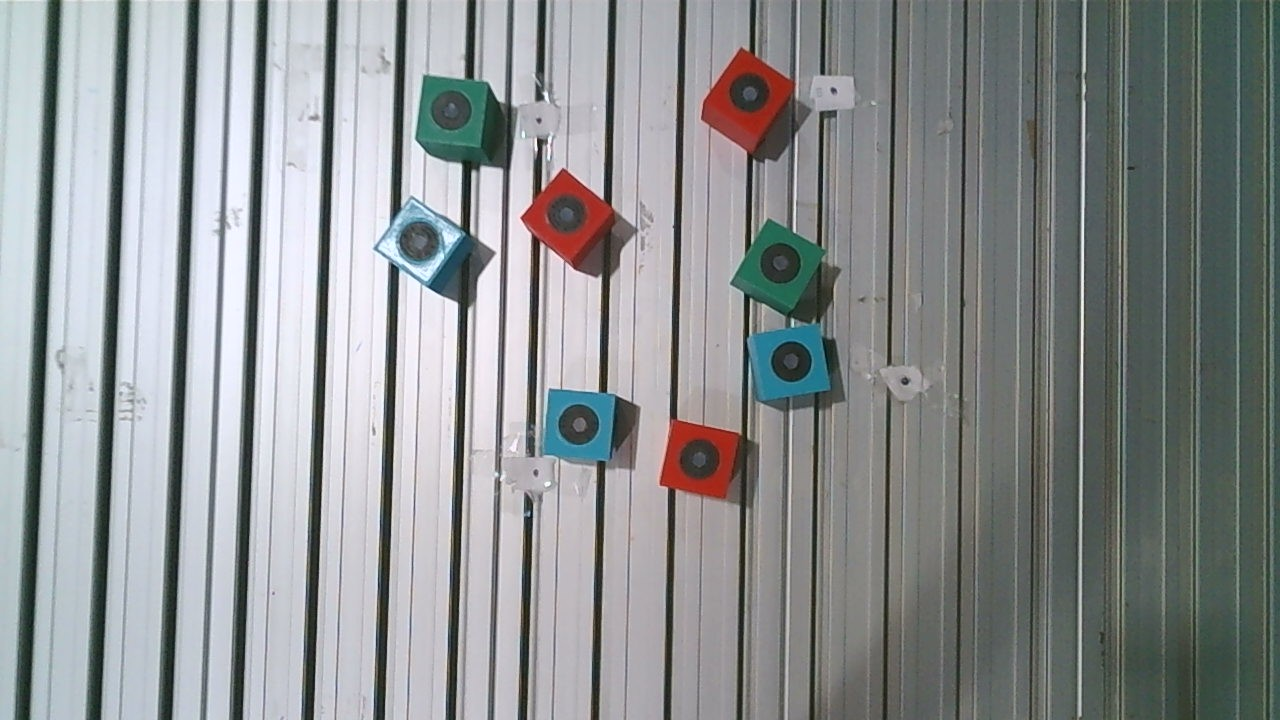
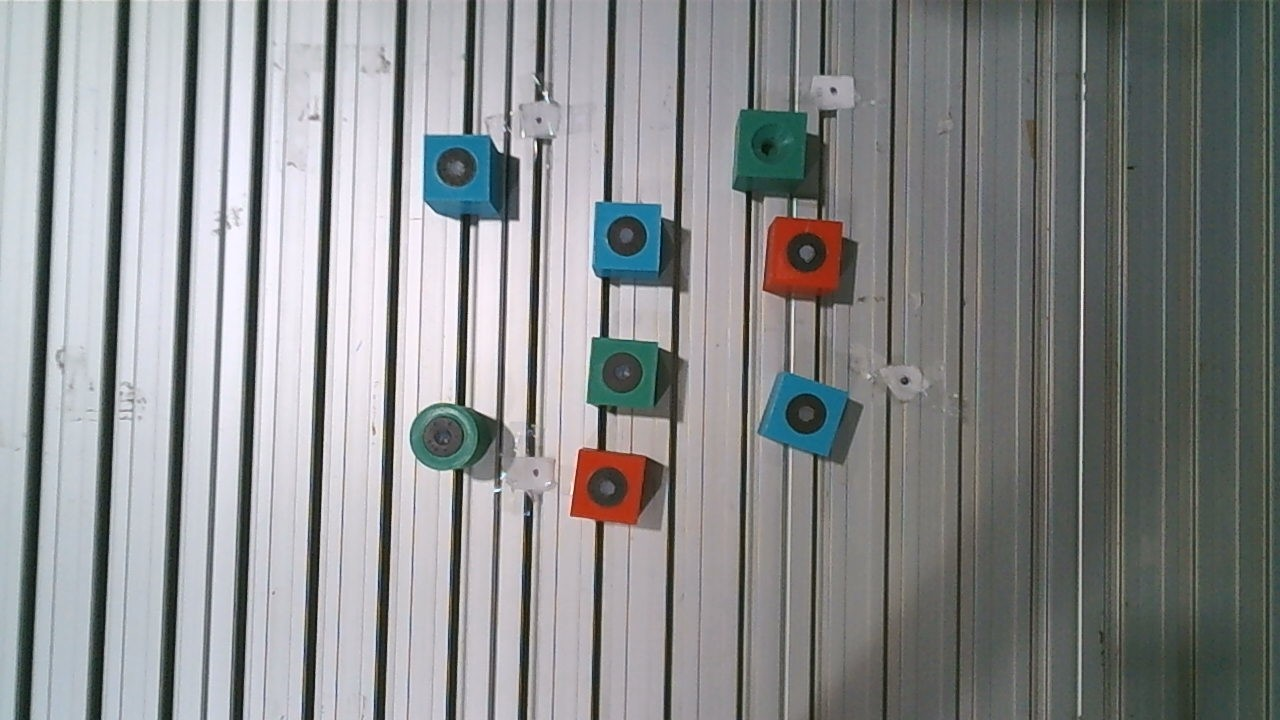
Puesta en marcha final

diff --git a/lab_HMI/webapp/app.js b/lab_HMI/webapp/app.js
@@ -108,6 +108,9 @@ async function createHMI() {
             rapidCount = await RWS.Rapid.getData(TASK, MODULE, "piecesPickedCount");
             rapidCount.addCallbackOnChanged(v => {
                 document.getElementById("piece-count").textContent = v;
+                if (parseInt(v) >= 9) {
+                    FPComponents.Popup_A.message("Mision completada", "Se han recogido 9 piezas con exito.");
+                }
             });
             await rapidCount.subscribe(true);
         } catch (e) { console.warn("rapidCount:", e); }

diff --git a/lab3_pick_place_VC/client-tcpip-gofa/ClienteGoFa_original.py b/lab3_pick_place_VC/client-tcpip-gofa/ClienteGoFa_original.py
@@ -1,83 +1,199 @@
 import cv2
 import numpy as np
 import socket
-import time
+import select
 import json
+from pathlib import Path
+
+BASE_DIR = Path(__file__).parent
+HOMOGRAPHY_FILE = BASE_DIR / "homography.json"
+
 mi_socket = socket.socket()
-mi_socket.connect(("192.168.125.1" , 1025))
-#mi_socket.connect(("127.0.0.1" , 1025))
+mi_socket.connect(("192.168.125.1", 1025))
+#mi_socket.connect(("127.0.0.1", 1025))
 respuesta = mi_socket.recv(1024)
 print(respuesta)
 mi_socket.sendall('Server connected'.encode())
 
-def dibujar(mask,color):
-  contornos,_ = cv2.findContours(mask, cv2.RETR_EXTERNAL,
-      cv2.CHAIN_APPROX_SIMPLE)
-  for c in contornos:
-    area = cv2.contourArea(c)
-    if area > 2000:
-      M = cv2.moments(c)
-      if (M["m00"]==0): M["m00"]=1
-      x = int(M["m10"]/M["m00"])
-      y = int(M['m01']/M['m00'])
-      
-      # Convertir pixeles a milímetros reales usando la calibracion
-      pt = np.array([[[x, y]]], dtype=np.float32)
-      res = cv2.perspectiveTransform(pt, H_global)[0][0]
-      x_mm, y_mm = float(res[0]), float(res[1])
-      
-      # Ignorar la zona de la izquierda (donde el robot deja los cubos)
-      if x_mm < 500:
-          continue
-          
-      nuevoContorno = cv2.convexHull(c)
-      cv2.circle(frame,(x,y),7,(0,255,0),-1)
-      
-      # Formatear a XXXYYY
-      x_str = str(max(0, min(999, int(round(x_mm))))).zfill(3)
-      y_str = str(max(0, min(999, int(round(y_mm))))).zfill(3)
-      
-      label = f'{x_str},{y_str}mm'
-      cv2.putText(frame,label,(x+10,y), font, 0.65,(0,255,0),1,cv2.LINE_AA)
-      
-      cv2.drawContours(frame, [nuevoContorno], 0, color, 3)
-      
-      coordXY = x_str + y_str
-      mi_socket.sendall(coordXY.encode())
-      time.sleep(1)
-      print("Coordenadas enviadas: " + coordXY)
+# ─── HOMOGRAFÍA ───────────────────────────────────────────────────────────────
 
-with open("homography.json", "r", encoding="utf-8") as f:
-    H_global = np.array(json.load(f)["H"], dtype=np.float64)
+def cargar_homografia(ruta):
+    if not Path(ruta).is_file():
+        return None
+    with open(ruta, "r", encoding="utf-8") as f:
+        data = json.load(f)
+    return np.array(data["H"], dtype=np.float64)
 
-cap = cv2.VideoCapture(2)
-azulBajo = np.array([90, 120, 80],np.uint8)
-azulAlto = np.array([130, 255, 255],np.uint8)
-amarilloBajo = np.array([20, 120, 80],np.uint8)
-amarilloAlto = np.array([40, 255, 255],np.uint8)
-redBajo1 = np.array([0, 120, 80],np.uint8)
-redAlto1 = np.array([8, 255, 255],np.uint8)
-redBajo2 = np.array([170, 120, 80],np.uint8)
-redAlto2 = np.array([179, 255, 255],np.uint8)
+H_global = cargar_homografia(HOMOGRAPHY_FILE)
+if H_global is None:
+    print("[AVISO] homography.json no encontrado. Coordenadas en pixeles.")
 
+def pixel_a_mm(px, py):
+    pt = np.array([[[px, py]]], dtype=np.float32)
+    res = cv2.perspectiveTransform(pt, H_global)[0][0]
+    return float(res[0]), float(res[1])
+
+def formatear_coords(x_mm, y_mm):
+    x = max(0, min(999, int(round(x_mm))))
+    y = max(0, min(999, int(round(y_mm))))
+    return f"{x:03d}{y:03d}"
+
+# ─── CONFIGURACIÓN DE COLORES ─────────────────────────────────────────────────
+# Valores por defecto si no existe el JSON calibrado
+DEFAULTS = {
+    "amarillo": {"hsv_lower_h": 20,  "hsv_lower_s": 150, "hsv_lower_v": 150,
+                 "hsv_upper_h": 30,  "hsv_upper_s": 255, "hsv_upper_v": 255, "min_area": 1000},
+    "verde":    {"hsv_lower_h": 45,  "hsv_lower_s": 75,  "hsv_lower_v": 52,
+                 "hsv_upper_h": 85,  "hsv_upper_s": 189, "hsv_upper_v": 147, "min_area": 442},
+    "azul":     {"hsv_lower_h": 96,  "hsv_lower_s": 69,  "hsv_lower_v": 0,
+                 "hsv_upper_h": 117, "hsv_upper_s": 198, "hsv_upper_v": 255, "min_area": 986},
+    "rojo":     {"hsv_lower_h": 0,   "hsv_lower_s": 128, "hsv_lower_v": 132,
+                 "hsv_upper_h": 49,  "hsv_upper_s": 255, "hsv_upper_v": 255,
+                 "hsv_lower_h2": 145, "hsv_upper_h2": 179, "min_area": 136},
+}
+
+# C1=Amarillo  C2=Azul  C3=Rojo  C4=Verde
+COLOR_IDS   = {1: "amarillo", 2: "azul", 3: "rojo", 4: "verde"}
+COLOR_BGR   = {"amarillo": (0, 255, 255), "azul": (255, 0, 0), "rojo": (0, 0, 255), "verde": (0, 200, 0)}
+COLOR_NOMBRES = {1: "Amarillo", 2: "Azul", 3: "Rojo", 4: "Verde"}
+
+def _cargar_cfg(nombre):
+    ruta = BASE_DIR / f"config_cubos_{nombre}.json"
+    if ruta.is_file():
+        with open(ruta, "r", encoding="utf-8") as f:
+            return json.load(f)
+    return DEFAULTS[nombre]
+
+color_configs = {cid: _cargar_cfg(nombre) for cid, nombre in COLOR_IDS.items()}
+
+def calcular_mask(frameHSV, cfg):
+    lo = np.array([cfg["hsv_lower_h"], cfg["hsv_lower_s"], cfg["hsv_lower_v"]], np.uint8)
+    hi = np.array([cfg["hsv_upper_h"], cfg["hsv_upper_s"], cfg["hsv_upper_v"]], np.uint8)
+    mask = cv2.inRange(frameHSV, lo, hi)
+    if "hsv_lower_h2" in cfg:
+        lo2 = np.array([cfg["hsv_lower_h2"], cfg["hsv_lower_s"], cfg["hsv_lower_v"]], np.uint8)
+        hi2 = np.array([cfg["hsv_upper_h2"], cfg["hsv_upper_s"], cfg["hsv_upper_v"]], np.uint8)
+        mask = cv2.add(mask, cv2.inRange(frameHSV, lo2, hi2))
+    return mask
+
+# ─── ESTADO: color pedido por RAPID ───────────────────────────────────────────
+selected_color_id = None  # ultimo color solicitado por RAPID
+pendiente_envio = False   # True = RAPID espera una coordenada
+
+def leer_color_desde_rapid():
+    """Lee mensajes de RAPID: 'Cn' (peticion de coordenada) o 'FIN' (9 piezas completadas)."""
+    global selected_color_id, pendiente_envio
+    try:
+        readable, _, _ = select.select([mi_socket], [], [], 0)
+        if readable:
+            data = mi_socket.recv(8).decode(errors="ignore").strip()
+            if data == "FIN":
+                print("\n" + "=" * 45)
+                print("  COMPLETADO: 9 piezas recogidas con exito.")
+                print("=" * 45 + "\n")
+            elif data.startswith("C") and len(data) >= 2 and data[1].isdigit():
+                nuevo = int(data[1])
+                if nuevo in COLOR_IDS:
+                    selected_color_id = nuevo
+                    pendiente_envio = True
+                    print(f"\n[RAPID] Peticion: {COLOR_NOMBRES[nuevo]} — buscando pieza...")
+    except Exception as e:
+        print(f"[Error] Socket: {e}")
+
+# ─── DETECCIÓN + DIBUJO ───────────────────────────────────────────────────────
 font = cv2.FONT_HERSHEY_SIMPLEX
 
-while True:
-    ret,frame = cap.read()
+def dibujar_color(frame, frameHSV, color_id):
+    """Dibuja contornos y etiquetas de coordenadas del color dado.
+    Devuelve lista de strings 'XXXYYYY' de las piezas en zona de recogida."""
+    cfg = color_configs[color_id]
+    mask = calcular_mask(frameHSV, cfg)
+    contornos, _ = cv2.findContours(mask, cv2.RETR_EXTERNAL, cv2.CHAIN_APPROX_SIMPLE)
+    bgr = COLOR_BGR[COLOR_IDS[color_id]]
+    min_area = cfg.get("min_area", 500)
+    coords_encontradas = []
 
-    if ret == True:
-        frameHSV = cv2.cvtColor(frame,cv2.COLOR_BGR2HSV)
-        maskAzul = cv2.inRange(frameHSV,azulBajo,azulAlto)
-        maskAmarillo = cv2.inRange(frameHSV,amarilloBajo,amarilloAlto)
-        maskRed1 = cv2.inRange(frameHSV,redBajo1,redAlto1)
-        maskRed2 = cv2.inRange(frameHSV,redBajo2,redAlto2)
-        maskRed = cv2.add(maskRed1,maskRed2)
-        dibujar(maskAzul,(255,0,0))
-        dibujar(maskAmarillo,(0,255,255))
-        dibujar(maskRed,(0,0,255))
-        cv2.imshow('frame',frame)
-        if cv2.waitKey(1) & 0xFF == ord('s'):
-            mi_socket.close()
-            break
+    for c in contornos:
+        if cv2.contourArea(c) < min_area:
+            continue
+        M = cv2.moments(c)
+        if M["m00"] == 0:
+            continue
+        x = int(M["m10"] / M["m00"])
+        y = int(M["m01"] / M["m00"])
+        hull = cv2.convexHull(c)
+        cv2.drawContours(frame, [hull], 0, bgr, 3)
+        cv2.circle(frame, (x, y), 7, bgr, -1)
+
+        if H_global is not None:
+            x_mm, y_mm = pixel_a_mm(x, y)
+            if x_mm < 500:  # ignorar zona de deposito
+                continue
+            coordXY = formatear_coords(x_mm, y_mm)
+            label = f'{coordXY[:3]},{coordXY[3:]}mm'
+        else:
+            coordXY = f"{x:03d}{y:03d}"
+            label = f'{x},{y}px'
+
+        cv2.putText(frame, label, (x + 10, y), font, 0.6, bgr, 1, cv2.LINE_AA)
+        coords_encontradas.append(coordXY)
+
+    return coords_encontradas
+
+# ─── CAMARA ───────────────────────────────────────────────────────────────────
+cap = cv2.VideoCapture(0)
+
+print("\n=== Pick & Place - Vision ===")
+print("Detectando colores. Esperando peticion de RAPID (INICIAR en HMI).")
+print("Pulsa 's' para salir.\n")
+
+while True:
+    ret, frame = cap.read()
+    if not ret:
+        continue
+
+    frameHSV = cv2.cvtColor(frame, cv2.COLOR_BGR2HSV)
+
+    # Comprobar si RAPID ha pedido una coordenada (no bloqueante)
+    leer_color_desde_rapid()
+
+    # Dibujar TODOS los colores con sus coordenadas en camara
+    coords_seleccionado = []
+    for cid in COLOR_IDS:
+        coords = dibujar_color(frame, frameHSV, cid)
+        if cid == selected_color_id:
+            coords_seleccionado = coords
+
+    # Overlay de estado
+    if selected_color_id is None:
+        estado = "Esperando HMI — pulsa INICIAR"
+        color_estado = (200, 200, 200)
+    elif pendiente_envio:
+        estado = f"Buscando: {COLOR_NOMBRES[selected_color_id]}..."
+        color_estado = COLOR_BGR[COLOR_IDS[selected_color_id]]
+    else:
+        estado = f"Listo — ultimo: {COLOR_NOMBRES[selected_color_id]}"
+        color_estado = (180, 255, 180)
+    cv2.putText(frame, estado, (10, 25), font, 0.65, (0, 0, 0), 3, cv2.LINE_AA)
+    cv2.putText(frame, estado, (10, 25), font, 0.65, color_estado, 1, cv2.LINE_AA)
+
+    # Aviso si RAPID espera pero no hay piezas visibles
+    if pendiente_envio and not coords_seleccionado and selected_color_id is not None:
+        aviso = f"SIN PIEZAS {COLOR_NOMBRES[selected_color_id].upper()} VISIBLES"
+        cv2.putText(frame, aviso, (10, 55), font, 0.6, (0, 0, 255), 2, cv2.LINE_AA)
+
+    cv2.imshow('frame', frame)
+
+    # Responder a la peticion de RAPID: enviar UNA coordenada del color solicitado
+    if pendiente_envio and coords_seleccionado:
+        coordXY = coords_seleccionado[0]
+        mi_socket.sendall(coordXY.encode())
+        pendiente_envio = False
+        print(f"Coordenada enviada [{COLOR_NOMBRES[selected_color_id]}]: {coordXY}")
+
+    if cv2.waitKey(1) & 0xFF == ord('s'):
+        mi_socket.close()
+        break
+
 cap.release()
 cv2.destroyAllWindows()

diff --git a/lab3_pick_place_VC/client-tcpip-gofa/mock_robot.py b/lab3_pick_place_VC/client-tcpip-gofa/mock_robot.py
@@ -18,7 +18,6 @@ USO:
 
 import socket
 import threading
-import sys
 
 HOST = "127.0.0.1"
 PORT = 1025
@@ -59,7 +58,7 @@ def main():
     bienvenida = conn.recv(1024).decode(errors="ignore").strip()
     print(f"[mock] Python envio: {repr(bienvenida)}")
     print()
-    print("Comandos: C1=Amarillo  C2=Azul  C3=Rojo  q=salir")
+    print("Comandos: C1=Amarillo  C2=Azul  C3=Rojo  C4=Verde  q=salir")
     print("-" * 40)
 
     hilo = threading.Thread(target=recibir_loop, args=(conn,), daemon=True)
@@ -69,12 +68,12 @@ def main():
         cmd = input().strip()
         if cmd.lower() == "q":
             break
-        if cmd in ("C1", "C2", "C3"):
+        if cmd in ("C1", "C2", "C3", "C4"):
             conn.sendall(cmd.encode())
-            nombres = {"C1": "Amarillo", "C2": "Azul", "C3": "Rojo"}
+            nombres = {"C1": "Amarillo", "C2": "Azul", "C3": "Rojo", "C4": "Verde"}
             print(f"[mock] Enviado {cmd} ({nombres[cmd]})")
         else:
-            print("[mock] Comando no reconocido. Usa C1, C2, C3 o q.")
+            print("[mock] Comando no reconocido. Usa C1, C2, C3, C4 o q.")
 
     conn.close()
     srv.close()

diff --git a/lab3_pick_place_VC/client-tcpip-gofa/ajuste_parametros_colores.py b/lab3_pick_place_VC/client-tcpip-gofa/ajuste_parametros_colores.py
@@ -5,7 +5,7 @@ import os
 from pathlib import Path
 
 # ─── SELECCIONA EL COLOR A CALIBRAR ───────────────────────────────────────────
-COLOR = "amarillo"   # "verde" | "amarillo" | "azul" | "rojo"
+COLOR = "rojo"   # "verde" | "amarillo" | "azul" | "rojo"
 # ──────────────────────────────────────────────────────────────────────────────
 
 BASE_DIR = Path(__file__).parent